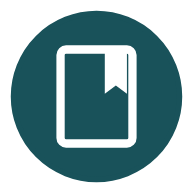
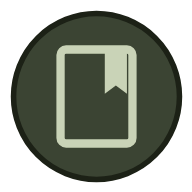
Add files via upload

diff --git a/todo.html b/todo.html
@@ -4,21 +4,21 @@
 <meta charset="utf-8">
 <meta name="viewport" content="width=device-width, initial-scale=1, viewport-fit=cover">
 <meta name="theme-color" content="#1C2116">
-<title>To Do 1.1.0</title>
-<link rel="manifest" href="./todo.webmanifest?v=1.1.0">
-<link rel="icon" href="./clie-app-todo-192.png?v=1.0.0">
-<link rel="apple-touch-icon" href="./clie-app-todo-192.png?v=1.0.0">
+<title>To Do List 1.3.0</title>
+<link rel="manifest" href="./todo.webmanifest?v=1.3.0">
+<link rel="icon" href="./todo-192.png?v=1.3.0">
+<link rel="apple-touch-icon" href="./todo-192.png?v=1.3.0">
 <!--
-  To Do als eigene App (seit 1.1.0).
-  Die Seite liegt bewusst außerhalb des Bereichs von CLIE (./clie…): Läge sie
-  darin, hielte Chrome sie für „schon installiert“ und legte nur eine
-  Verknüpfung mit Chrome-Zeichen an (Fehler in 1.0.0). Darin läuft CLIE
-  eingebettet, direkt in To Do — dieselbe Adresse, dieselben Daten.
+  To Do List als eigene App (Hülle 1.3.0).
+  Die Seite liegt bewusst außerhalb des Bereichs von CLIE (./clie…) und ihr
+  eigener Bereich ist nur diese Datei. Darin läuft CLIE eingebettet, direkt
+  in To Do List — dieselbe Adresse, dieselben Daten.
 -->
 <style>
 html,body{height:100%;margin:0;background:#B9C4A6;overflow:hidden}
 body{display:flex;flex-direction:column}
-#hinweis{flex:0 0 auto;display:flex;align-items:center;gap:10px;padding:8px 12px;background:#1C2116;color:#DCE4CC;font:15px/1.35 ui-monospace,"Courier New",monospace}
+#hinweis{flex:0 0 auto;display:flex;align-items:center;gap:10px;padding:8px 12px;
+  background:#1C2116;color:#DCE4CC;font:15px/1.35 ui-monospace,"Courier New",monospace}
 #hinweis span{flex:1}
 #hinweis button{font:inherit;color:#1C2116;background:#DCE4CC;border:0;border-radius:12px;padding:4px 12px}
 #clie{flex:1 1 auto;width:100%;border:0;display:block}
@@ -26,29 +26,43 @@ body{display:flex;flex-direction:column}
 </style>
 </head>
 <body>
-<div id="hinweis" hidden><span>To Do als App: Chrome-Menü ⋮ › Zum Startbildschirm hinzufügen › Installieren</span><button type="button" id="installieren" hidden>Installieren</button></div>
-<iframe id="clie" title="To Do" src="./clie.html#aufgaben" allow="clipboard-read; clipboard-write; fullscreen; screen-wake-lock; autoplay"></iframe>
+<div id="hinweis" hidden><span>To Do List als App: Chrome-Menü ⋮ › Zum Startbildschirm hinzufügen › Installieren</span><button type="button" id="installieren" hidden>Installieren</button></div>
+<iframe id="clie" title="To Do List" src="./clie.html#aufgaben" allow="clipboard-read; clipboard-write; fullscreen; screen-wake-lock; autoplay"></iframe>
 <script>
 'use strict';
 var aufschub = null;
+
 function alsApp() {
-  return !!(window.matchMedia && window.matchMedia('(display-mode: standalone)').matches);
+  try {
+    return (window.matchMedia && window.matchMedia('(display-mode: standalone)').matches)
+      || window.navigator.standalone === true;
+  } catch (e) { return false; }
 }
-function installierenTipp() {
+
+function installieren() {
   if (!aufschub) { return; }
   aufschub.prompt();
-  aufschub.userChoice.then(function () { aufschub = null; document.getElementById('installieren').hidden = true; });
-}
-function startSeite() {
-  /* Im Browser-Tab ein schmaler Hinweis zum Installieren, als App nur CLIE */
-  if (!alsApp()) { document.getElementById('hinweis').hidden = false; }
-  window.addEventListener('beforeinstallprompt', function (e) {
-    e.preventDefault();
-    aufschub = e;
-    document.getElementById('installieren').hidden = false;
+  aufschub.userChoice.then(function () {
+    aufschub = null;
+    document.getElementById('hinweis').hidden = true;
   });
-  window.addEventListener('appinstalled', function () { document.getElementById('hinweis').hidden = true; });
-  document.getElementById('installieren').addEventListener('click', installierenTipp);
+}
+
+function startSeite() {
+  /* Als installierte App ist nichts zu zeigen — nur CLIE. */
+  if (!alsApp()) {
+    document.getElementById('hinweis').hidden = false;
+    window.addEventListener('beforeinstallprompt', function (e) {
+      e.preventDefault();
+      aufschub = e;
+      document.getElementById('installieren').hidden = false;
+    });
+    document.getElementById('installieren').addEventListener('click', installieren);
+  }
+  /* Derselbe Service Worker und Bereich wie CLIE — die Hülle legt keinen eigenen an. */
+  if (navigator.serviceWorker && /^https?:/.test(window.location.protocol)) {
+    navigator.serviceWorker.register('./sw-clie.js', { scope: './clie' }).catch(function () { return null; });
+  }
 }
 startSeite();
 </script>

diff --git a/datebook.html b/datebook.html
@@ -4,21 +4,21 @@
 <meta charset="utf-8">
 <meta name="viewport" content="width=device-width, initial-scale=1, viewport-fit=cover">
 <meta name="theme-color" content="#1C2116">
-<title>Date Book 1.1.0</title>
-<link rel="manifest" href="./datebook.webmanifest?v=1.1.0">
-<link rel="icon" href="./clie-app-datebook-192.png?v=1.0.0">
-<link rel="apple-touch-icon" href="./clie-app-datebook-192.png?v=1.0.0">
+<title>Date Book 1.3.0</title>
+<link rel="manifest" href="./datebook.webmanifest?v=1.3.0">
+<link rel="icon" href="./datebook-192.png?v=1.3.0">
+<link rel="apple-touch-icon" href="./datebook-192.png?v=1.3.0">
 <!--
-  Date Book als eigene App (seit 1.1.0).
-  Die Seite liegt bewusst außerhalb des Bereichs von CLIE (./clie…): Läge sie
-  darin, hielte Chrome sie für „schon installiert“ und legte nur eine
-  Verknüpfung mit Chrome-Zeichen an (Fehler in 1.0.0). Darin läuft CLIE
-  eingebettet, direkt in Date Book — dieselbe Adresse, dieselben Daten.
+  Date Book als eigene App (Hülle 1.3.0).
+  Die Seite liegt bewusst außerhalb des Bereichs von CLIE (./clie…) und ihr
+  eigener Bereich ist nur diese Datei. Darin läuft CLIE eingebettet, direkt
+  in Date Book — dieselbe Adresse, dieselben Daten.
 -->
 <style>
 html,body{height:100%;margin:0;background:#B9C4A6;overflow:hidden}
 body{display:flex;flex-direction:column}
-#hinweis{flex:0 0 auto;display:flex;align-items:center;gap:10px;padding:8px 12px;background:#1C2116;color:#DCE4CC;font:15px/1.35 ui-monospace,"Courier New",monospace}
+#hinweis{flex:0 0 auto;display:flex;align-items:center;gap:10px;padding:8px 12px;
+  background:#1C2116;color:#DCE4CC;font:15px/1.35 ui-monospace,"Courier New",monospace}
 #hinweis span{flex:1}
 #hinweis button{font:inherit;color:#1C2116;background:#DCE4CC;border:0;border-radius:12px;padding:4px 12px}
 #clie{flex:1 1 auto;width:100%;border:0;display:block}
@@ -31,24 +31,38 @@ body{display:flex;flex-direction:column}
 <script>
 'use strict';
 var aufschub = null;
+
 function alsApp() {
-  return !!(window.matchMedia && window.matchMedia('(display-mode: standalone)').matches);
+  try {
+    return (window.matchMedia && window.matchMedia('(display-mode: standalone)').matches)
+      || window.navigator.standalone === true;
+  } catch (e) { return false; }
 }
-function installierenTipp() {
+
+function installieren() {
   if (!aufschub) { return; }
   aufschub.prompt();
-  aufschub.userChoice.then(function () { aufschub = null; document.getElementById('installieren').hidden = true; });
-}
-function startSeite() {
-  /* Im Browser-Tab ein schmaler Hinweis zum Installieren, als App nur CLIE */
-  if (!alsApp()) { document.getElementById('hinweis').hidden = false; }
-  window.addEventListener('beforeinstallprompt', function (e) {
-    e.preventDefault();
-    aufschub = e;
-    document.getElementById('installieren').hidden = false;
+  aufschub.userChoice.then(function () {
+    aufschub = null;
+    document.getElementById('hinweis').hidden = true;
   });
-  window.addEventListener('appinstalled', function () { document.getElementById('hinweis').hidden = true; });
-  document.getElementById('installieren').addEventListener('click', installierenTipp);
+}
+
+function startSeite() {
+  /* Als installierte App ist nichts zu zeigen — nur CLIE. */
+  if (!alsApp()) {
+    document.getElementById('hinweis').hidden = false;
+    window.addEventListener('beforeinstallprompt', function (e) {
+      e.preventDefault();
+      aufschub = e;
+      document.getElementById('installieren').hidden = false;
+    });
+    document.getElementById('installieren').addEventListener('click', installieren);
+  }
+  /* Derselbe Service Worker und Bereich wie CLIE — die Hülle legt keinen eigenen an. */
+  if (navigator.serviceWorker && /^https?:/.test(window.location.protocol)) {
+    navigator.serviceWorker.register('./sw-clie.js', { scope: './clie' }).catch(function () { return null; });
+  }
 }
 startSeite();
 </script>

diff --git a/desk.html b/desk.html
@@ -4,21 +4,21 @@
 <meta charset="utf-8">
 <meta name="viewport" content="width=device-width, initial-scale=1, viewport-fit=cover">
 <meta name="theme-color" content="#1C2116">
-<title>Desk 1.1.0</title>
-<link rel="manifest" href="./desk.webmanifest?v=1.1.0">
-<link rel="icon" href="./clie-app-desk-192.png?v=1.0.0">
-<link rel="apple-touch-icon" href="./clie-app-desk-192.png?v=1.0.0">
+<title>Desk 1.3.0</title>
+<link rel="manifest" href="./desk.webmanifest?v=1.3.0">
+<link rel="icon" href="./desk-192.png?v=1.3.0">
+<link rel="apple-touch-icon" href="./desk-192.png?v=1.3.0">
 <!--
-  Desk als eigene App (seit 1.1.0).
-  Die Seite liegt bewusst außerhalb des Bereichs von CLIE (./clie…): Läge sie
-  darin, hielte Chrome sie für „schon installiert“ und legte nur eine
-  Verknüpfung mit Chrome-Zeichen an (Fehler in 1.0.0). Darin läuft CLIE
-  eingebettet, direkt in Desk — dieselbe Adresse, dieselben Daten.
+  Desk als eigene App (Hülle 1.3.0).
+  Die Seite liegt bewusst außerhalb des Bereichs von CLIE (./clie…) und ihr
+  eigener Bereich ist nur diese Datei. Darin läuft CLIE eingebettet, direkt
+  in Desk — dieselbe Adresse, dieselben Daten.
 -->
 <style>
 html,body{height:100%;margin:0;background:#B9C4A6;overflow:hidden}
 body{display:flex;flex-direction:column}
-#hinweis{flex:0 0 auto;display:flex;align-items:center;gap:10px;padding:8px 12px;background:#1C2116;color:#DCE4CC;font:15px/1.35 ui-monospace,"Courier New",monospace}
+#hinweis{flex:0 0 auto;display:flex;align-items:center;gap:10px;padding:8px 12px;
+  background:#1C2116;color:#DCE4CC;font:15px/1.35 ui-monospace,"Courier New",monospace}
 #hinweis span{flex:1}
 #hinweis button{font:inherit;color:#1C2116;background:#DCE4CC;border:0;border-radius:12px;padding:4px 12px}
 #clie{flex:1 1 auto;width:100%;border:0;display:block}
@@ -31,24 +31,38 @@ body{display:flex;flex-direction:column}
 <script>
 'use strict';
 var aufschub = null;
+
 function alsApp() {
-  return !!(window.matchMedia && window.matchMedia('(display-mode: standalone)').matches);
+  try {
+    return (window.matchMedia && window.matchMedia('(display-mode: standalone)').matches)
+      || window.navigator.standalone === true;
+  } catch (e) { return false; }
 }
-function installierenTipp() {
+
+function installieren() {
   if (!aufschub) { return; }
   aufschub.prompt();
-  aufschub.userChoice.then(function () { aufschub = null; document.getElementById('installieren').hidden = true; });
-}
-function startSeite() {
-  /* Im Browser-Tab ein schmaler Hinweis zum Installieren, als App nur CLIE */
-  if (!alsApp()) { document.getElementById('hinweis').hidden = false; }
-  window.addEventListener('beforeinstallprompt', function (e) {
-    e.preventDefault();
-    aufschub = e;
-    document.getElementById('installieren').hidden = false;
+  aufschub.userChoice.then(function () {
+    aufschub = null;
+    document.getElementById('hinweis').hidden = true;
   });
-  window.addEventListener('appinstalled', function () { document.getElementById('hinweis').hidden = true; });
-  document.getElementById('installieren').addEventListener('click', installierenTipp);
+}
+
+function startSeite() {
+  /* Als installierte App ist nichts zu zeigen — nur CLIE. */
+  if (!alsApp()) {
+    document.getElementById('hinweis').hidden = false;
+    window.addEventListener('beforeinstallprompt', function (e) {
+      e.preventDefault();
+      aufschub = e;
+      document.getElementById('installieren').hidden = false;
+    });
+    document.getElementById('installieren').addEventListener('click', installieren);
+  }
+  /* Derselbe Service Worker und Bereich wie CLIE — die Hülle legt keinen eigenen an. */
+  if (navigator.serviceWorker && /^https?:/.test(window.location.protocol)) {
+    navigator.serviceWorker.register('./sw-clie.js', { scope: './clie' }).catch(function () { return null; });
+  }
 }
 startSeite();
 </script>

diff --git a/bookmarks.html b/bookmarks.html
@@ -4,12 +4,12 @@
 <meta charset="utf-8">
 <meta name="viewport" content="width=device-width, initial-scale=1, viewport-fit=cover">
 <meta name="theme-color" content="#1C2116">
-<title>Bookmarks 1.2.0</title>
-<link rel="manifest" href="./bookmarks.webmanifest?v=1.2.0">
-<link rel="icon" href="./bookmarks-192.png?v=1.2.0">
-<link rel="apple-touch-icon" href="./bookmarks-192.png?v=1.2.0">
+<title>Bookmarks 1.3.0</title>
+<link rel="manifest" href="./bookmarks.webmanifest?v=1.3.0">
+<link rel="icon" href="./bookmarks-192.png?v=1.3.0">
+<link rel="apple-touch-icon" href="./bookmarks-192.png?v=1.3.0">
 <!--
-  Bookmarks als eigene App (Hülle 1.2.0).
+  Bookmarks als eigene App (Hülle 1.3.0).
   Die Seite liegt bewusst außerhalb des Bereichs von CLIE (./clie…) und ihr
   eigener Bereich ist nur diese Datei. Darin läuft CLIE eingebettet, direkt
   in Bookmarks — dieselbe Adresse, dieselben Daten.
